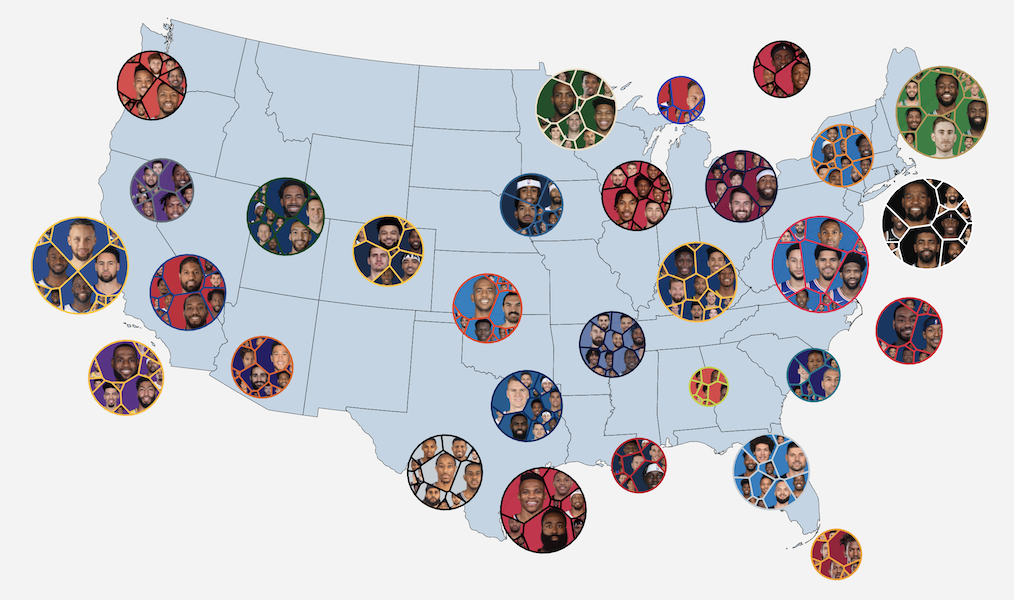
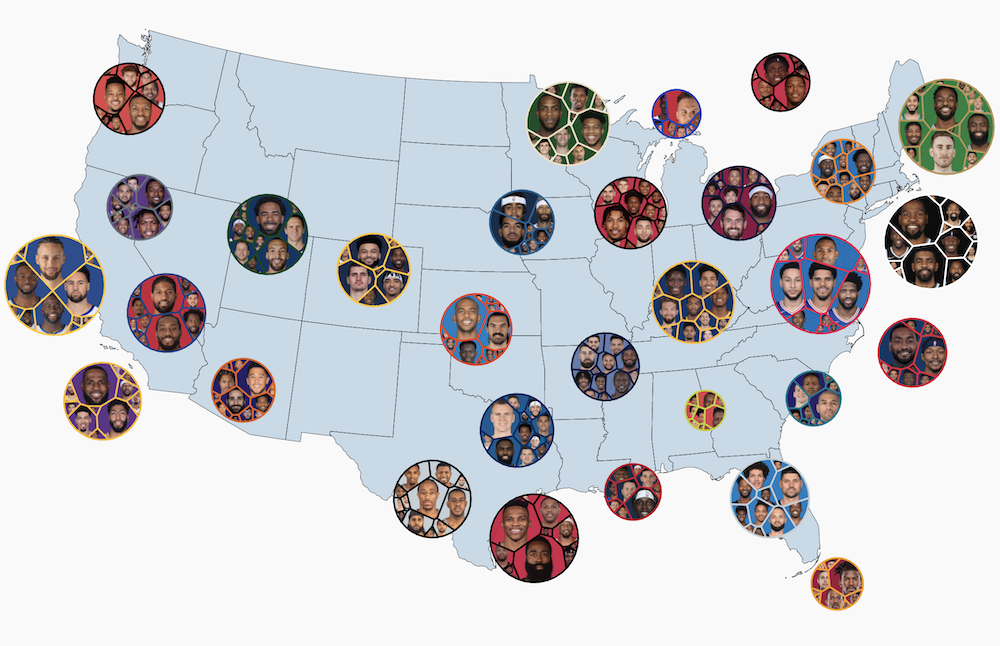
Updated NBA player movement project image with lighter gray background to match others.

Changed region(s): [[0.0, 0.03, 1.0, 0.99], [0.744, 0.06, 0.837, 0.18], [0.372, 0.24, 0.403, 0.27]]

diff --git a/index.html b/index.html
@@ -110,7 +110,7 @@
 
             <a target="_blank" href="https://bit.ly/nba-player-movement-map" class="project">
             	<div class="project__image-wrapper">
-                    <div class="project__preview-image" style="background-color: #f3f3f3">
+                    <div class="project__preview-image">
                         <img src="https://www.samlearner.com/images/nba_player_movement_preview_basic.png" alt="NBA Player Movement Map"/>
             		</div>
                     <span class="caption">NBA Player Movement Map</span>
